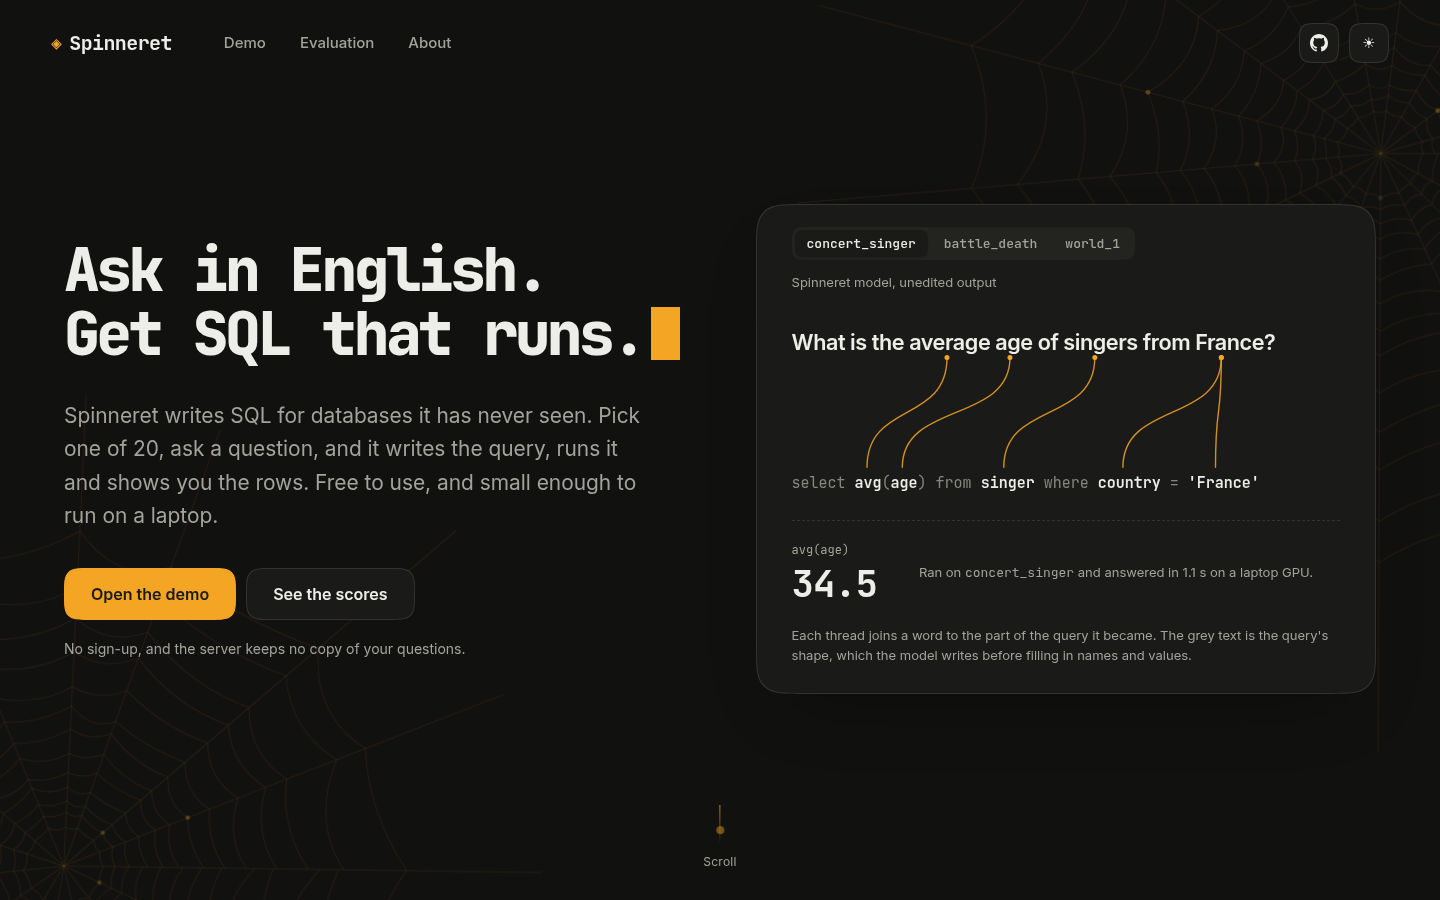
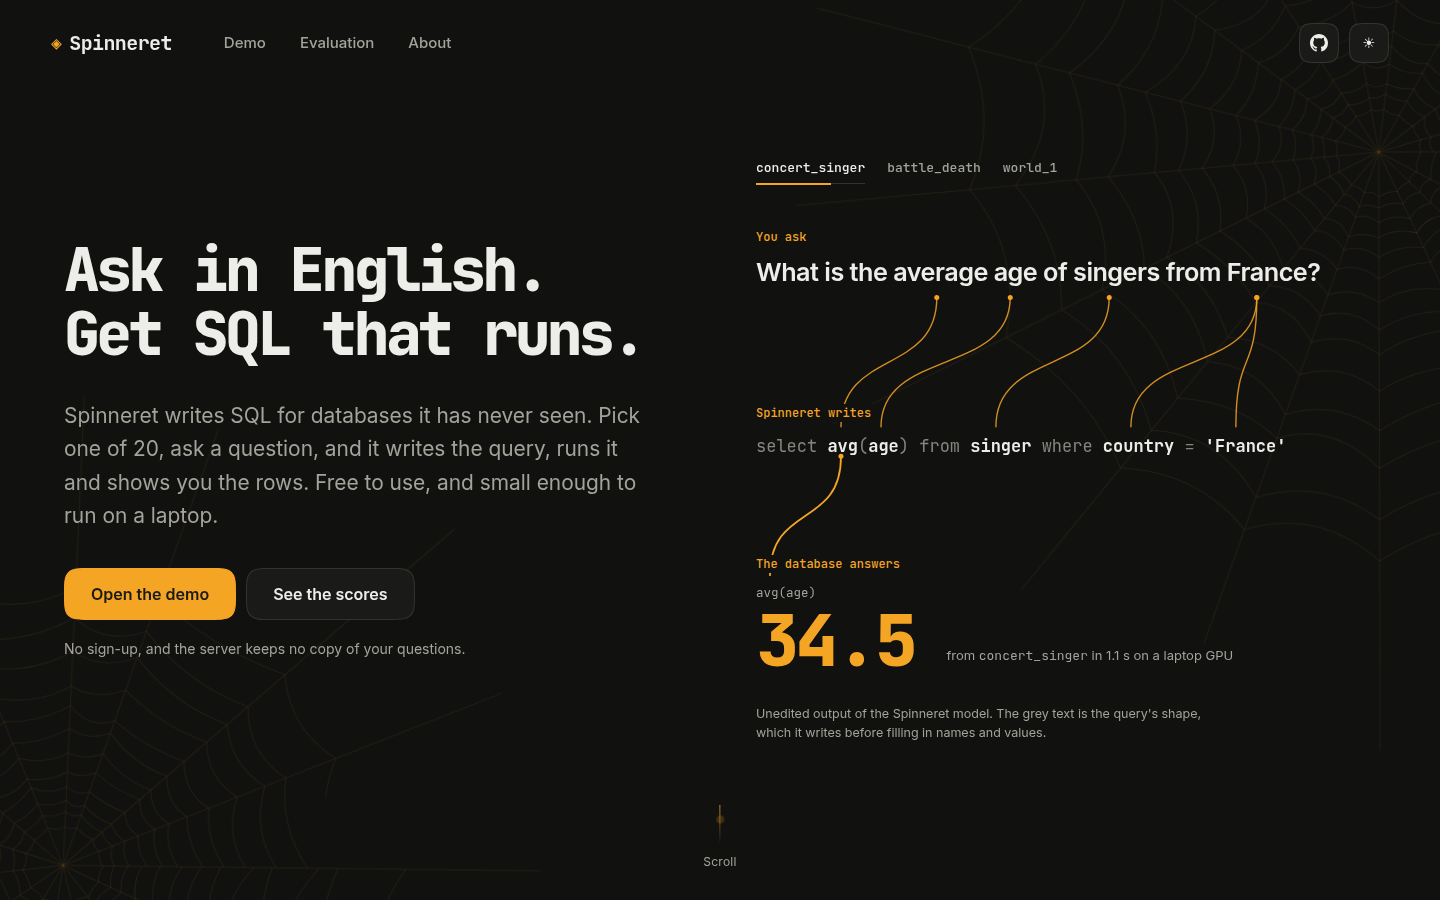
README: landing screenshot with the new hero

diff --git a/README.md b/README.md
@@ -4,7 +4,7 @@
 
 [![MIT licence](https://img.shields.io/badge/licence-MIT-b45309)](LICENSE)
 
-![Spinneret's landing page: the monospace headline "Ask in English. Get SQL that runs." beside a real question threaded word by word to the SQL the model wrote for it](docs/img/landing.png)
+![Spinneret's landing page: the monospace headline "Ask in English. Get SQL that runs." beside a real question spun down by threads into its SQL and then into the answer](docs/img/landing.png)
 
 ## What it does
 
